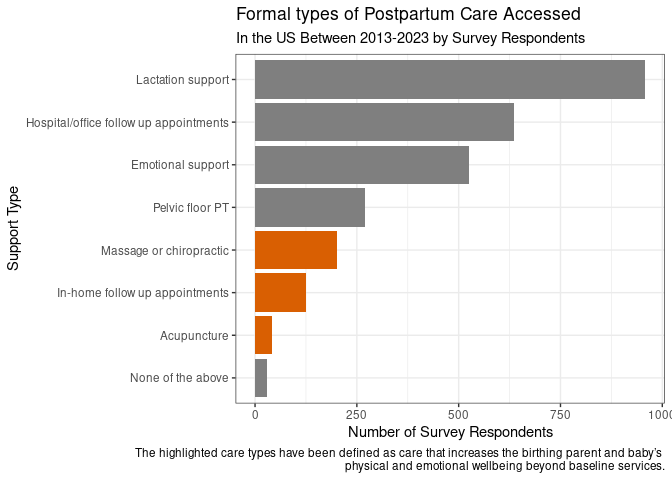
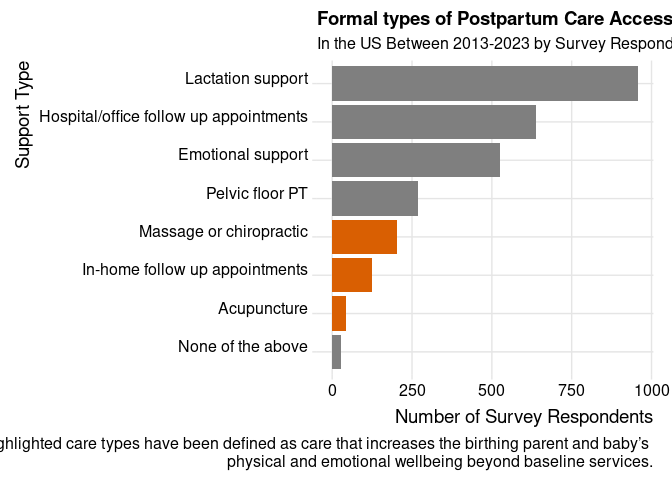
Add theme

diff --git a/memo/memo.md b/memo/memo.md
@@ -349,6 +349,7 @@ Postpartum |>
     #  "Hospital/office follow up appointments" = "#66c2a5"))
      #  "default" = "darkblue")) +
   theme_bw() +
+  theme_ridges() +
   theme(legend.position = 'none') + 
   coord_flip() +
   labs(title = "Formal types of Postpartum Care Accessed", 
@@ -391,6 +392,7 @@ Postpartum |>
     )
     ) +
   theme_bw() +
+  theme_ridges() +
   theme(legend.position = 'none') + 
   coord_flip() +
   labs(title = "Formal types of Postpartum Care Accessed", 
@@ -425,6 +427,7 @@ Postpartum |>
 ggplot(mapping = aes(x = fct_rev(fct_infreq(support_type)), y = percentage, fill = support_type)) +
   geom_col() +
   theme_bw() +
+  theme_ridges() +
   theme(legend.position = 'none') + 
   coord_flip() +
   labs(title = "Informal types of Postpartum Care Accessed", 
